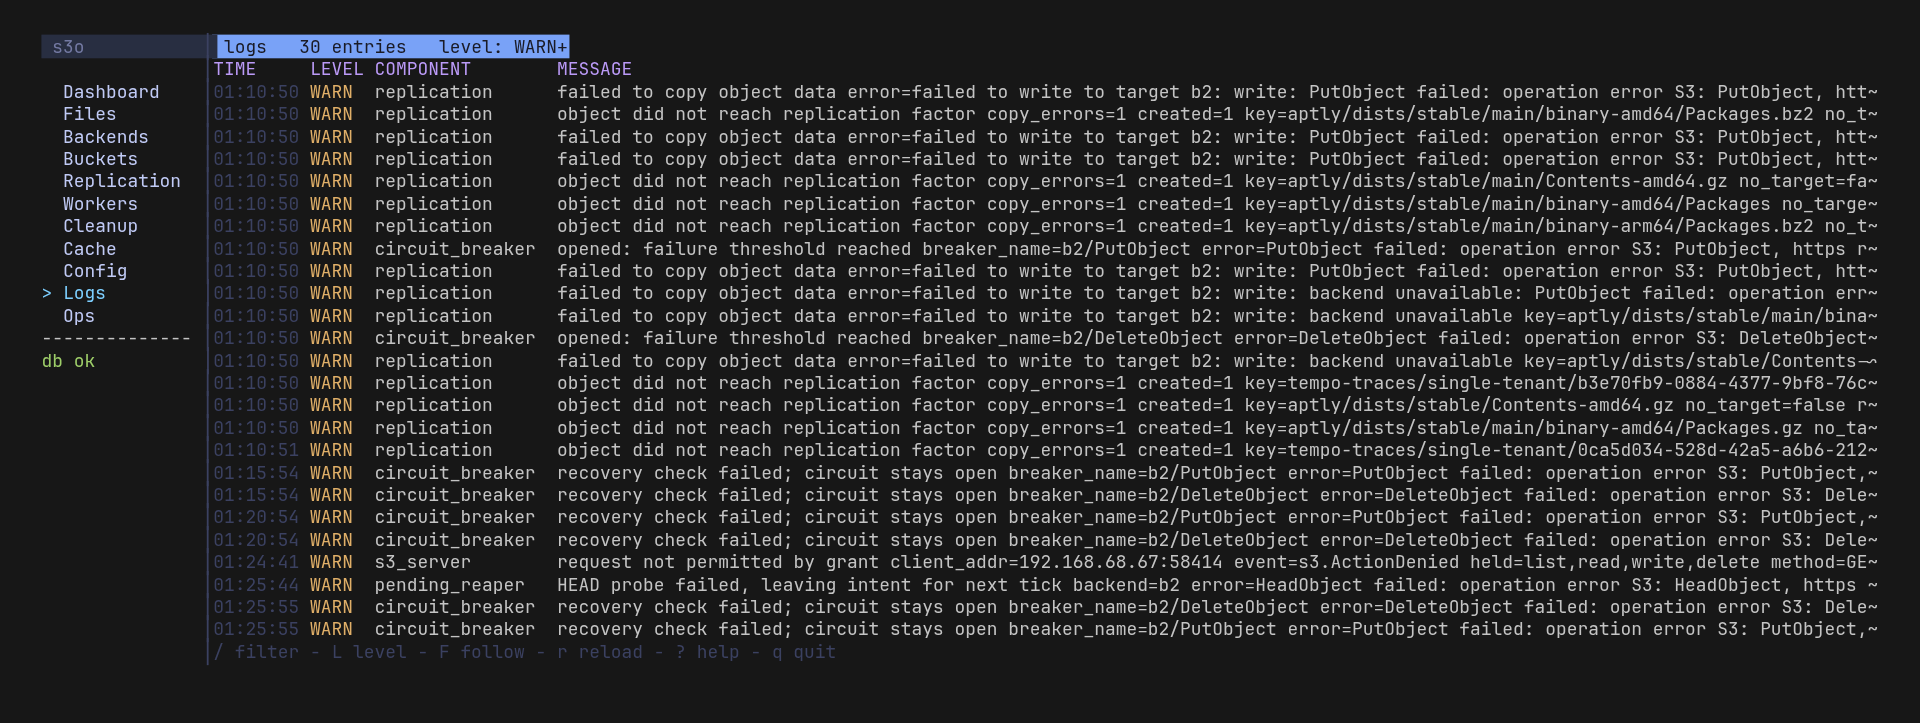
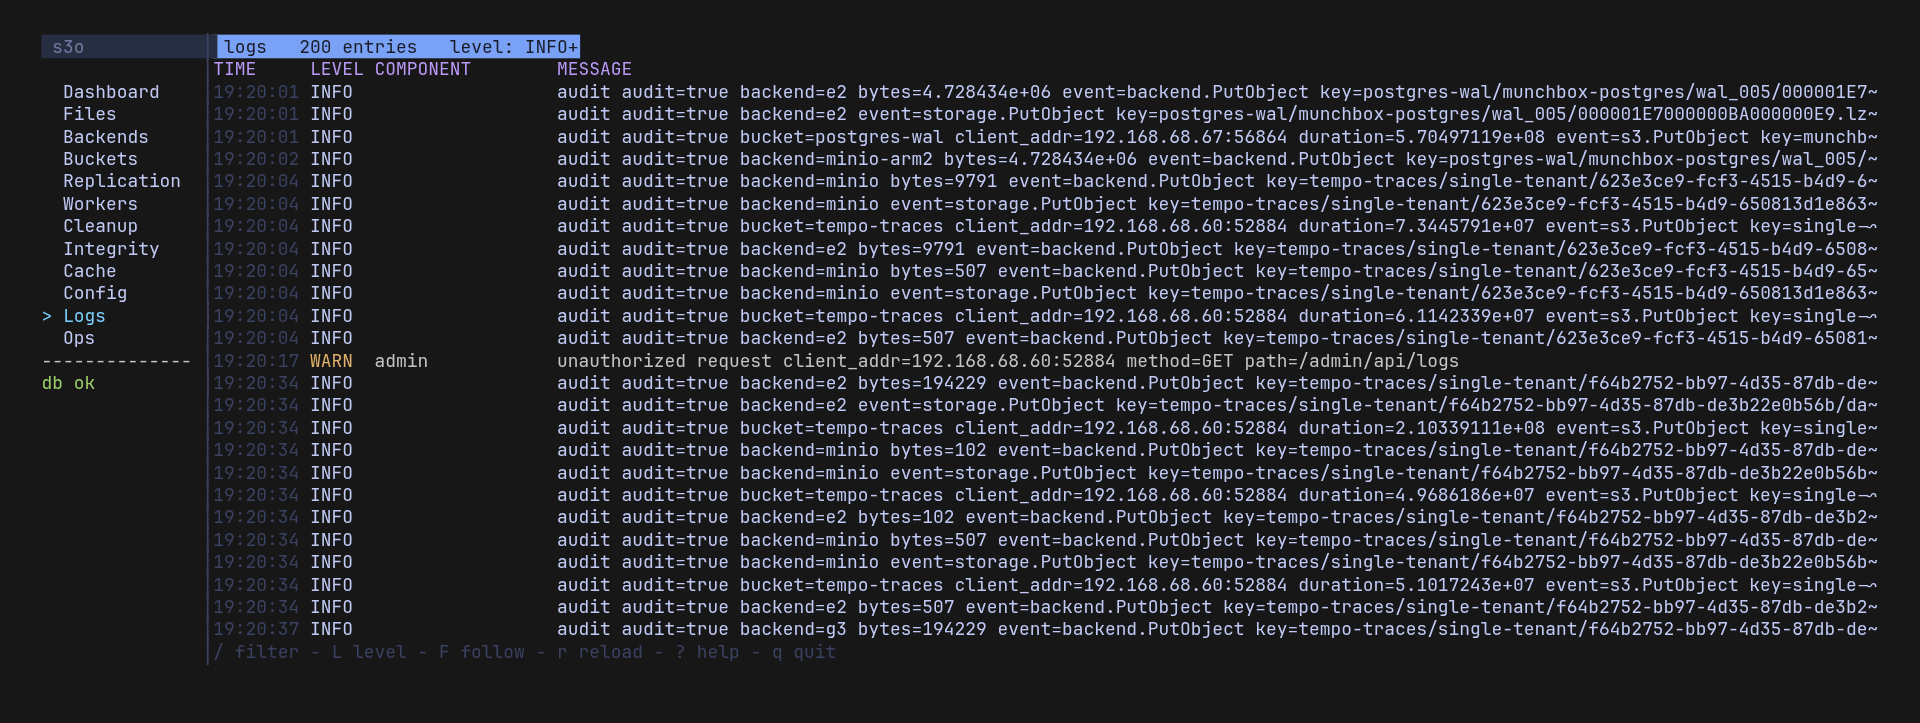
docs: refresh the TUI screenshots and add the Integrity pane
Every TUI screenshot showed a sidebar without the Integrity section. The seven
existing shots are recaptured against v0.183.0, and a new one shows the
Integrity pane listing managed and unmanaged unhashed copies.

diff --git a/docs/cli.md b/docs/cli.md
@@ -580,6 +580,8 @@ The **Cleanup** section shows the cleanup queue and its dead-letter table, sourc
 
 The **Integrity** section lists the copies the integrity passes act on, sourced from `GET /admin/api/unhashed` and `GET /admin/api/unreadable`: the copies with no content hash, and the copies encrypted with no key. Both listings share the pane, toggled with `t`, and the title bar carries both totals. `m` narrows the unhashed listing to the managed copies, which backfill hashes, or to the unmanaged ones, which it leaves alone; a page in key order can otherwise be all of one kind. The total is the true count under the filter; the listing itself is one page of it. The pane refreshes every 30 seconds, and only while it is showing, since each refresh reads a page of the ledger.
 
+![The TUI Integrity section listing managed and unmanaged unhashed copies](/docs/images/tui-integrity.png)
+
 The **Cache** section shows the object data cache, sourced from `GET /admin/api/cache` - entry count, bytes held against the configured maximum, and the lifetime hit rate. The hit rate is coloured for a cache doing its job rather than a full one: green at 60% and above, amber down to 25%, red below. A cache nothing has read yet says so instead of reporting 0%, which would read as a broken cache. When object caching is disabled the endpoint answers 503 and the pane reports that as configuration, not failure.
 
 The **Config** section shows the configuration the server is running, sourced from `GET /admin/api/config`: the YAML a config file would hold, with defaults filled in and secrets shown as `(redacted)`. The title carries the log level in effect, which `PUT /admin/api/log-level` can change until the next restart. Fields edited in the file and reloaded with `SIGHUP` that only apply on a restart are listed above the YAML. Press `r` to refresh.
@@ -602,7 +604,7 @@ An entry ending in `...` asks for a value first: the key or prefix to invalidate
 
 The long-running operations render the same live progress stream `admin` shows on the command line, one line per item - a rebalance names each object and the backends it travelled between. The rest finish in a single round trip and report what changed in the operation's own terms: `dropped 1,204 cache entries`, `corrected 2 backends: e2 -162.1 MiB, oci +4.1 MiB`, `encrypted 1,200 objects, 3 failed`. An operation that did not run - a rebalance already within threshold, a feature not configured - says so instead of reporting a false zero. Press `esc` to step back to the menu, then to the nav.
 
-![The TUI Logs section filtered to warnings and above, showing recent structured log entries](/docs/images/tui-logs.png)
+![The TUI Logs section at INFO and above, showing recent structured log entries](/docs/images/tui-logs.png)
 
 ![The TUI Backends section showing per-backend status](/docs/images/tui-backends.png)
 

diff --git a/web/content/guides/tui-object-browser.md b/web/content/guides/tui-object-browser.md
@@ -186,7 +186,7 @@ The pane polls every 10 seconds; press `r` to poll now. Every figure is read on 
 
 Press `l` (or select **Logs** in the sidebar) to switch to the logs view - recent structured log entries from the instance's in-memory buffer, the same source the web dashboard reads. Each row is the time, level, component, and a human-readable message with its structured attributes appended as `key=value` pairs, so you can follow what the instance is doing (PUTs, replication copies, drains, cleanup ticks) without tailing container logs. The level is colour-coded by severity so warnings and errors stand out. Press `L` to cycle the minimum-level filter (all / INFO / WARN / ERROR) and `r` to refresh. Press `F` to follow new entries as they arrive; the pane stays on the newest entries unless you scroll up. Press `/` and type to keep only the entries whose component or message contains the text - `replicator`, say, or an object key that appears in an entry's attributes; `esc` clears it.
 
-![The Logs section filtered to warnings and above, showing recent structured log entries](/docs/images/tui-logs.png?classes=lightbox)
+![The Logs section at INFO and above, showing recent structured log entries](/docs/images/tui-logs.png?classes=lightbox)
 
 ## Step 6: Check the background services
 
@@ -195,6 +195,8 @@ Press `w` (or select **Workers**) for each registered background service's last-
 ![The Workers section listing each background service's last-tick health](/docs/images/tui-workers.png?classes=lightbox)
 
 The neighbouring status sections read the same way: `p` for the replication factor and the under- and over-replicated counts, `u` for the cleanup queue and its dead-letter table, `i` for the unhashed and unreadable copies (`t` switches between them, `m` narrows the unhashed ones to managed or unmanaged), and `c` for the object cache's entry count, size, and hit rate.
+
+![The Integrity section listing unhashed copies on one backend, managed copies under a bucket prefix and unmanaged ones outside every prefix](/docs/images/tui-integrity.png?classes=lightbox)
 
 ## Step 7: Run an admin action
 
